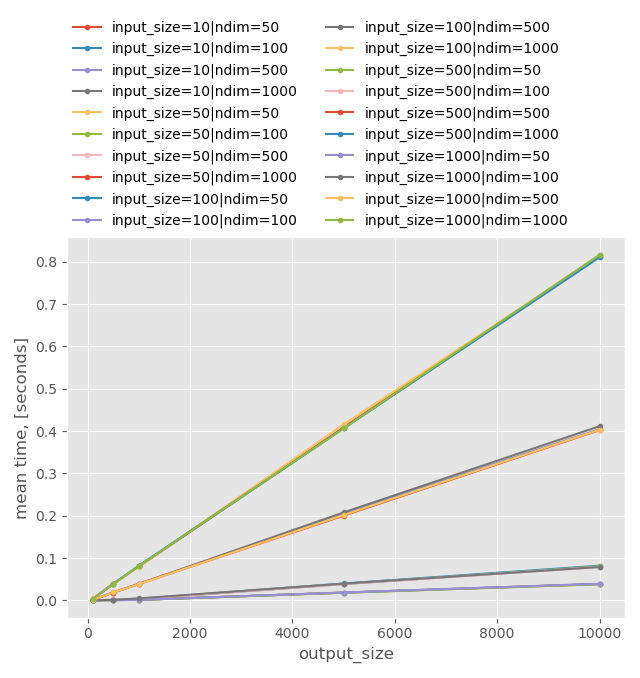
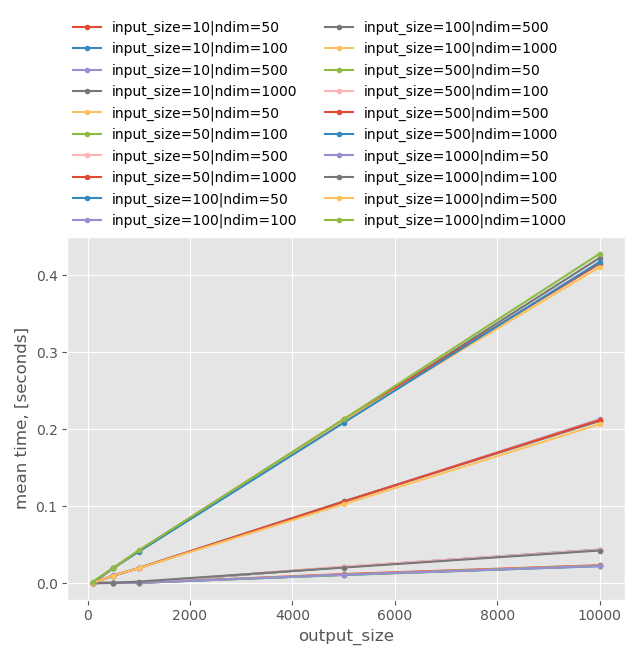
docs: update benchmarks

diff --git a/docs/benchmarks.rst b/docs/benchmarks.rst
@@ -71,9 +71,13 @@ ND-Grid
 Make Spline
 ~~~~~~~~~~~
 
-.. image:: _static/benchmarks/ndgrid-make.png
+.. image:: _static/benchmarks/ndgrid-make-ndim2.png
+
+.. image:: _static/benchmarks/ndgrid-make-ndim3.png
 
 Evaluate Spline
 ~~~~~~~~~~~~~~~
 
-.. image:: _static/benchmarks/ndgrid-evaluate.png
+.. image:: _static/benchmarks/ndgrid-evaluate-ndim2.png
+
+.. image:: _static/benchmarks/ndgrid-evaluate-ndim3.png
